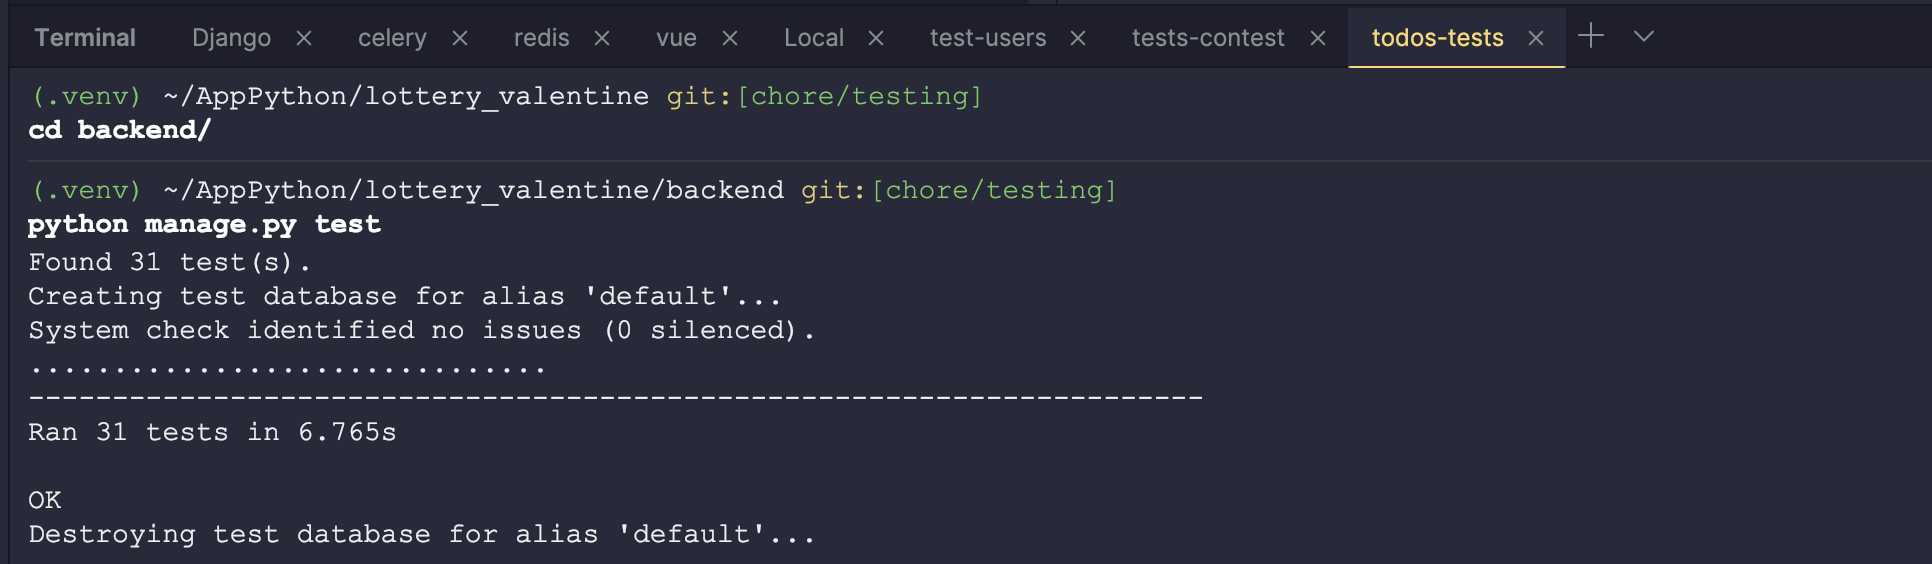
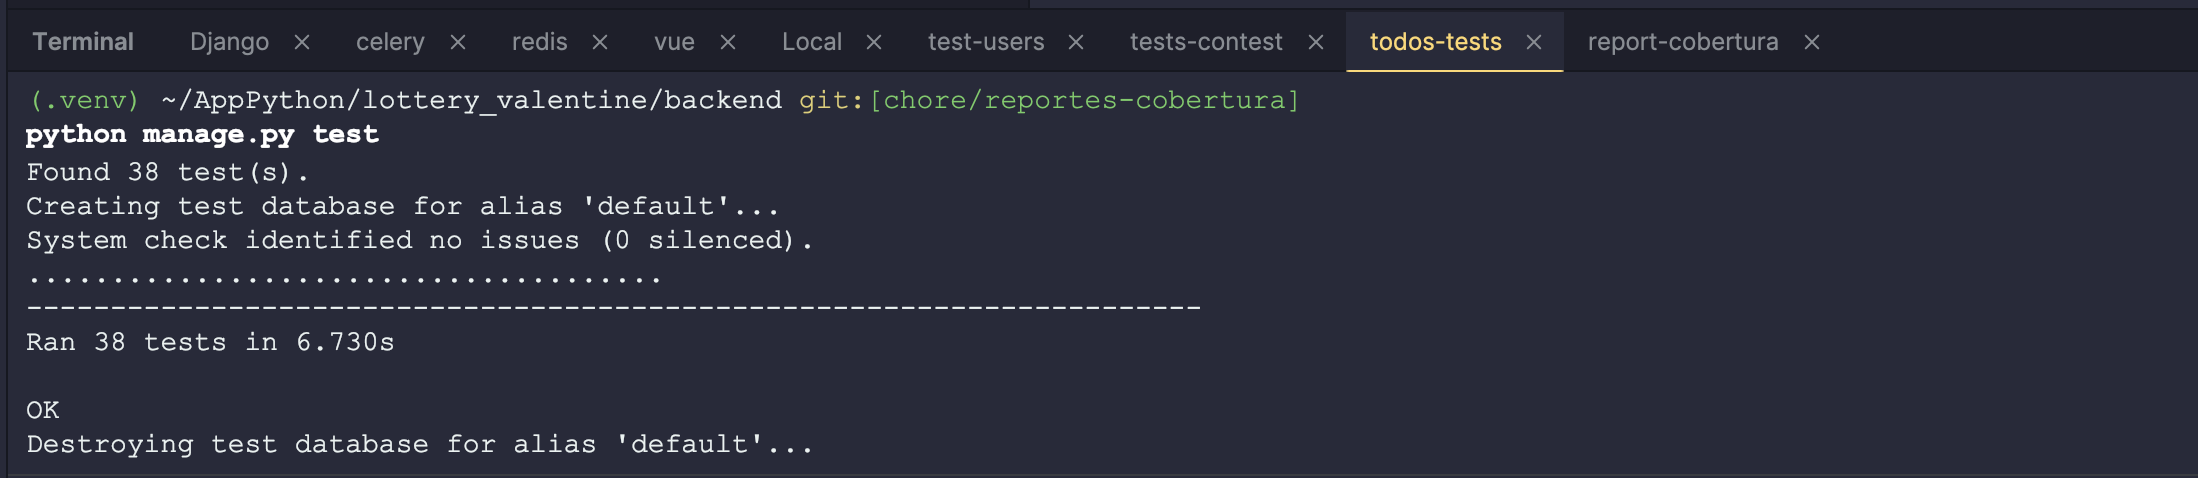
"Ampliada la documentación visual en `CARTURAS-DE-PROCESOS.md` con nuevas capturas sobre flujos de backend, pruebas exitosas y reportes de cobertura. Eliminadas capturas obsoletas."

diff --git a/CARTURAS-DE-PROCESOS.md b/CARTURAS-DE-PROCESOS.md
@@ -78,9 +78,25 @@ Este documento contiene las capturas de los procesos realizados en el **Backend*
 
 ![16-refrescar-jwt-token.png](capturas-de-procesos/backend/16-refrescar-jwt-token.png)
 
-### backend-terminales.png
+### 17-backend-terminales.png
 
-![backend-terminales.png](capturas-de-procesos/backend/backend-terminales.png)
+![17-backend-terminales.png](capturas-de-procesos/backend/17-backend-terminales.png)
+
+### 18-tests-exitosos-users.png
+
+![18-tests-exitosos-users.png](capturas-de-procesos/backend/18-tests-exitosos-users.png)
+
+### 19-test-exitosos-contest.png
+
+![19-test-exitosos-contest.png](capturas-de-procesos/backend/19-test-exitosos-contest.png)
+
+### 20-todos-tests-exitosos.png
+
+![20-todos-tests-exitosos.png](capturas-de-procesos/backend/20-todos-tests-exitosos.png)
+
+### 21-reportes_covertura.png
+
+![21-reportes_covertura.png](capturas-de-procesos/backend/21-reportes_covertura.png)
 
 ---
 
@@ -106,9 +122,9 @@ Este documento contiene las capturas de los procesos realizados en el **Backend*
 
 ![5-verificacion-email-registrado.png](capturas-de-procesos/frontend/5-verificacion-email-registrado.png)
 
-### 6-ingresar-contraseña.png
+### 6-ingresar-contrasena.png
 
-![6-ingresar-contraseña.png](capturas-de-procesos/frontend/6-ingresar-contraseña.png)
+![6-ingresar-contrasena.png](capturas-de-procesos/frontend/6-ingresar-contrasena.png)
 
 ### 7-envio-email-para-activar.png
 
